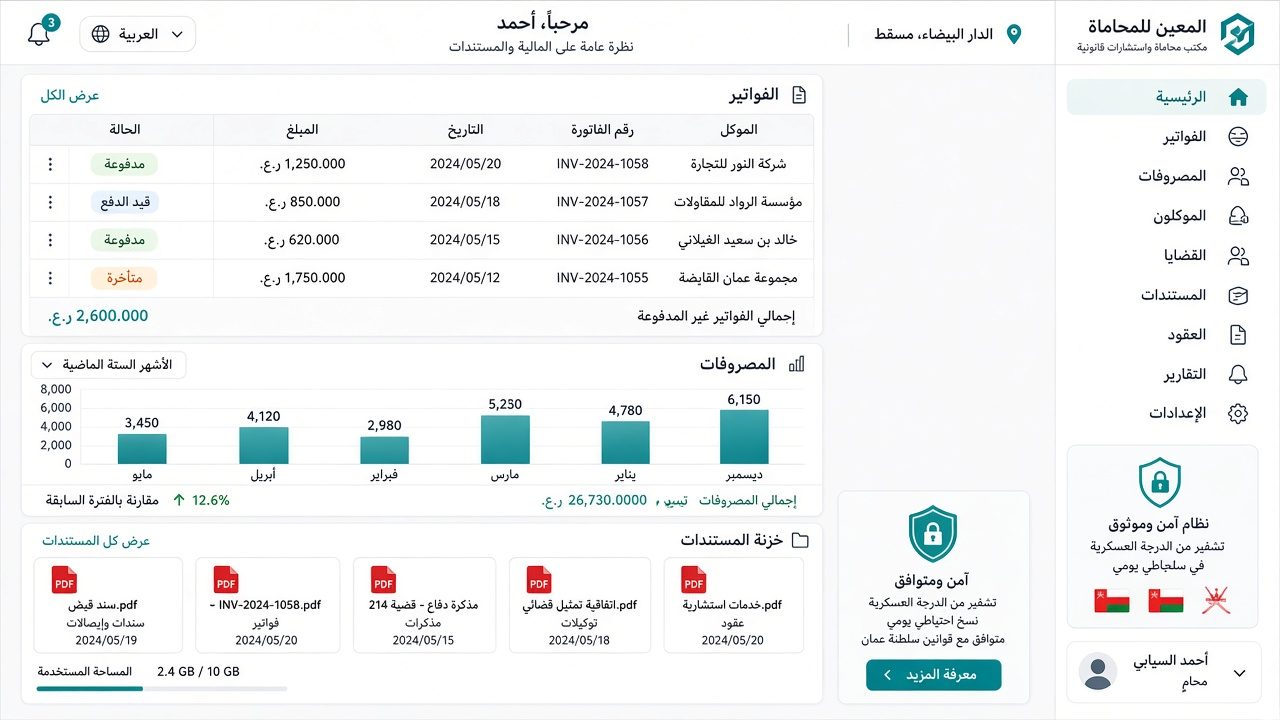
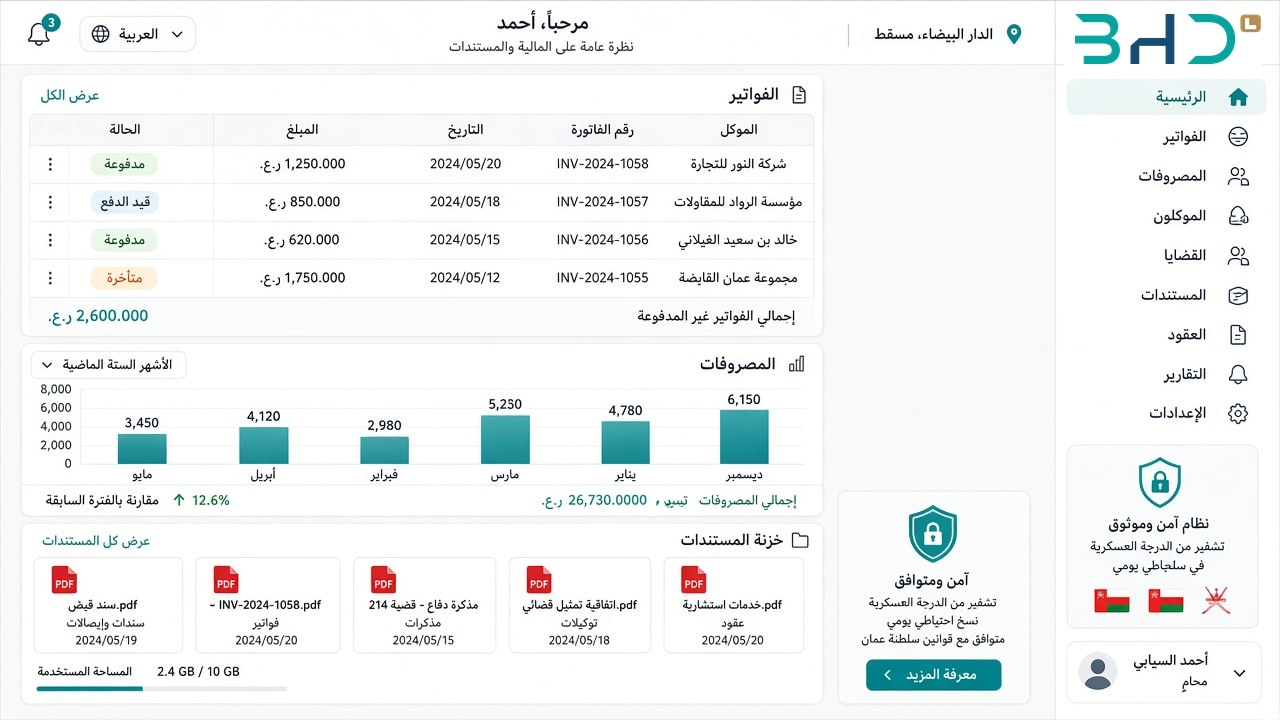
Publish the BHD L mark and record what the build document still leaves open.

Changed region(s): [[0.8438, 0.0, 1.0, 0.0917]]

diff --git a/apps/web/src/app/app/page.tsx b/apps/web/src/app/app/page.tsx
@@ -46,6 +46,7 @@ import { FinanceConsole } from "../../components/finance-console";
 import { InstrumentsConsole } from "../../components/instruments-console";
 import { CalendarConsole } from "../../components/calendar-console";
 import { BhdAppSwitcher } from "../../components/bhd/BhdAppSwitcher";
+import { LogoMark } from "../../components/brand/LogoMark";
 import { BhdMarketingChrome } from "../../components/bhd/BhdMarketingChrome";
 import { BhdSiteFooter } from "../../components/bhd/BhdSiteFooter";
 import {
@@ -405,7 +406,7 @@ export default function Home() {
   if (booting)
     return (
       <main className="boot" aria-busy="true">
-        <Scale size={40} />
+        <LogoMark size={44} />
         <p>{t.loading}</p>
       </main>
     );
@@ -416,11 +417,7 @@ export default function Home() {
         locale={locale}
         onLocaleChange={setLocale}
         brandHref="/"
-        brandMark={
-          <span className="brand-icon" style={{ width: 42, height: 42 }}>
-            <Scale size={20} />
-          </span>
-        }
+        brandMark={<LogoMark size={30} />}
         brand={
           <span>
             {t.brand}
@@ -658,9 +655,7 @@ export default function Home() {
     <div className="app-shell">
       <aside className="sidebar">
         <a className="brand" href="/" style={{ textDecoration: "none", color: "inherit" }}>
-          <span className="brand-icon">
-            <Scale />
-          </span>
+          <LogoMark size={26} />
           <span>
             {t.brand}
             <small>{t.tagline}</small>

diff --git a/apps/web/src/app/globals.css b/apps/web/src/app/globals.css
@@ -694,6 +694,45 @@ small {
   width: 43px;
   height: 43px;
 }
+.lo-logo {
+  display: inline-flex;
+  align-items: flex-start;
+  direction: ltr;
+  flex: 0 0 auto;
+  line-height: 0;
+}
+.lo-logo svg {
+  display: block;
+  height: 100%;
+  width: auto;
+}
+.lo-logo i {
+  display: grid;
+  place-content: center;
+  min-width: 1.55em;
+  min-height: 1.55em;
+  margin-block-start: -0.08em;
+  margin-inline-start: 0.22em;
+  padding: 0.06em 0.12em 0.08em;
+  color: #fff;
+  background: #b58d55;
+  border-radius: 0.42em 0.42em 0.42em 0.14em;
+  font-family: "IBM Plex Sans", Inter, sans-serif;
+  font-size: 0.42em;
+  font-style: normal;
+  font-weight: 900;
+  line-height: 1;
+  letter-spacing: 0;
+  box-shadow: 0 3px 8px rgb(181 141 85 / 0.22);
+}
+:root[data-theme="dark"] .lo-logo svg path {
+  fill: #fff;
+}
+:root[data-theme="dark"] .lo-logo i {
+  color: #092d24;
+  background: #d7c2a2;
+  box-shadow: none;
+}
 .primary {
   border: 1px solid var(--teal);
   background: var(--teal);

diff --git a/apps/web/src/components/brand/LogoMark.tsx b/apps/web/src/components/brand/LogoMark.tsx
@@ -1,0 +1,26 @@
+/** كلمة BHD الرسمية، ومعها شارة L كما في BHD R. */
+export function LogoMark({
+  size = 28,
+  title = "BHD L",
+}: {
+  size?: number;
+  title?: string;
+}) {
+  return (
+    <span
+      className="lo-logo"
+      style={{ height: size, fontSize: size }}
+      role="img"
+      aria-label={title}
+    >
+      <svg viewBox="0 0 548 171" aria-hidden="true">
+        <g fill="#08a39f">
+          <path d="M0 0h100c31 0 48 17 48 43 0 18-9 31-25 39 20 6 31 22 31 42 0 28-21 47-53 47H30v-28h70c16 0 26-8 26-20 0-13-11-22-29-22H0V74h97c15 0 24-8 24-21 0-15-10-25-25-25H28L0 0Z" />
+          <path d="M385 0h74c52 0 89 35 89 85 0 51-37 86-89 86h-74l28-28h46c36 0 61-23 61-58 0-34-25-57-61-57h-46L385 0Z" />
+        </g>
+        <path fill="#174b70" d="M190 109l30-27h90V0h30v171h-30v-62h-90v62h-30v-62Z" />
+      </svg>
+      <i>L</i>
+    </span>
+  );
+}

diff --git a/apps/web/src/components/laws/LawsLibrary.tsx b/apps/web/src/components/laws/LawsLibrary.tsx
@@ -2,7 +2,8 @@
 
 import Link from "next/link";
 import { useMemo, useState } from "react";
-import { ArrowUpLeft, BookOpen, Scale } from "lucide-react";
+import { ArrowUpLeft, BookOpen } from "lucide-react";
+import { LogoMark } from "../brand/LogoMark";
 import { OMAN_LAWS } from "../../lib/laws/oman-laws";
 
 export function LawsLibrary() {
@@ -30,9 +31,7 @@ export function LawsLibrary() {
     <div className="laws-shell" dir={isAr ? "rtl" : "ltr"} lang={locale}>
       <header className="laws-top">
         <Link href="/" className="laws-brand" prefetch>
-          <span className="laws-brand-mark" aria-hidden>
-            <Scale size={18} />
-          </span>
+          <LogoMark size={30} />
           <span>
             <strong>LEGAL OFFICE AI</strong>
             <small>{isAr ? "مكتبة القوانين العمانية" : "Omani laws library"}</small>

diff --git a/apps/web/src/components/laws/LawReader.tsx b/apps/web/src/components/laws/LawReader.tsx
@@ -6,9 +6,9 @@ import {
   ChevronLeft,
   ChevronRight,
   Printer,
-  Scale,
   ArrowRight,
 } from "lucide-react";
+import { LogoMark } from "../brand/LogoMark";
 import type { OmanLaw } from "../../lib/laws/types";
 import { paginateLaw } from "../../lib/laws/paginate";
 
@@ -74,9 +74,7 @@ export function LawReader({ law }: { law: OmanLaw }) {
         <article className="law-letter" aria-label={isAr ? law.titleAr : law.titleEn}>
           <div className="law-letter-flag" aria-hidden />
           <header className="law-letterhead">
-            <span className="law-letterhead-mark" aria-hidden>
-              <Scale size={24} />
-            </span>
+            <LogoMark size={40} />
             <div className="law-letterhead-brand">
               <strong>LEGAL OFFICE AI</strong>
               <span>

diff --git a/apps/web/src/app/laws/laws.css b/apps/web/src/app/laws/laws.css
@@ -40,14 +40,7 @@
   min-width: 0;
 }
 
-.laws-brand-mark {
-  width: 40px;
-  height: 40px;
-  border-radius: 12px;
-  display: grid;
-  place-items: center;
-  color: #fff;
-  background: linear-gradient(145deg, #12a8ae, #066266);
+.laws-brand .lo-logo {
   flex: 0 0 auto;
 }
 
@@ -256,14 +249,8 @@
   border-bottom: 1px solid #d7e4e5;
 }
 
-.law-letterhead-mark {
-  width: 52px;
-  height: 52px;
-  border-radius: 14px;
-  display: grid;
-  place-items: center;
-  color: #fff;
-  background: linear-gradient(145deg, #12a8ae, #066266);
+.law-letterhead .lo-logo {
+  flex: 0 0 auto;
 }
 
 .law-letterhead-brand strong {

diff --git a/apps/web/src/components/admin-console.tsx b/apps/web/src/components/admin-console.tsx
@@ -20,6 +20,7 @@ import {
   X,
   Scale,
 } from "lucide-react";
+import { LogoMark } from "./brand/LogoMark";
 import { api, ApiError } from "../lib/api";
 import { adminAr, adminEn } from "../lib/admin-messages";
 import {
@@ -1018,9 +1019,7 @@ export function AdminConsole() {
     <div className="app-shell admin-shell">
       <aside className="sidebar">
         <div className="brand">
-          <span className="brand-icon">
-            <ShieldCheck />
-          </span>
+          <LogoMark size={26} />
           <span>
             LEGAL OFFICE AI<small>{t.title}</small>
           </span>

diff --git a/apps/web/src/components/marketing/LandingPage.tsx b/apps/web/src/components/marketing/LandingPage.tsx
@@ -15,6 +15,7 @@ import {
   Users,
   X,
 } from "lucide-react";
+import { LogoMark } from "../brand/LogoMark";
 import {
   BhdMarketingChrome,
   SSO_START,
@@ -120,11 +121,7 @@ export function LandingPage() {
       <BhdMarketingChrome
         locale={locale}
         onLocaleChange={setLocale}
-        brandMark={
-          <span className="lo-mark" aria-hidden>
-            <Scale size={18} />
-          </span>
-        }
+        brandMark={<LogoMark size={30} />}
         brand={
           <span className="lo-brand-copy">
             <strong>LEGAL OFFICE AI</strong>

diff --git a/apps/web/src/components/bhd/BhdAppIcon.tsx b/apps/web/src/components/bhd/BhdAppIcon.tsx
@@ -134,16 +134,9 @@ const ICONS: Record<IconId, { label: string; soft: string; accent: string; glyph
   },
   legal: {
     label: "المكتب القانوني",
-    soft: "#e6f4f4",
-    accent: "#087e83",
-    glyph: (
-      <>
-        <path d="M24 12v20" />
-        <path d="M16 14h16" />
-        <path d="M24 17 15 30h7L24 17Zm0 0 9 13h-7L24 17Z" />
-        <path d="M17 33h14" />
-      </>
-    ),
+    soft: "#f4e8d8",
+    accent: "#9a7340",
+    glyph: <path d="M16 13v20h16" strokeWidth="3.4" />,
   },
 };
 

diff --git a/apps/web/src/app/landing.css b/apps/web/src/app/landing.css
@@ -92,16 +92,8 @@ body:has(.lo-home) {
   flex: 1 1 auto;
 }
 
-.lo-mark {
-  width: 40px;
-  height: 40px;
-  border-radius: 12px;
-  display: grid;
-  place-items: center;
-  color: #fff;
-  background: linear-gradient(145deg, #12a8ae, #066266);
-  box-shadow: 0 10px 22px #0b8f9433;
-  flex: 0 0 auto;
+.lo-home .bhd-chrome-brand {
+  align-items: center;
 }
 
 .lo-brand-copy {
